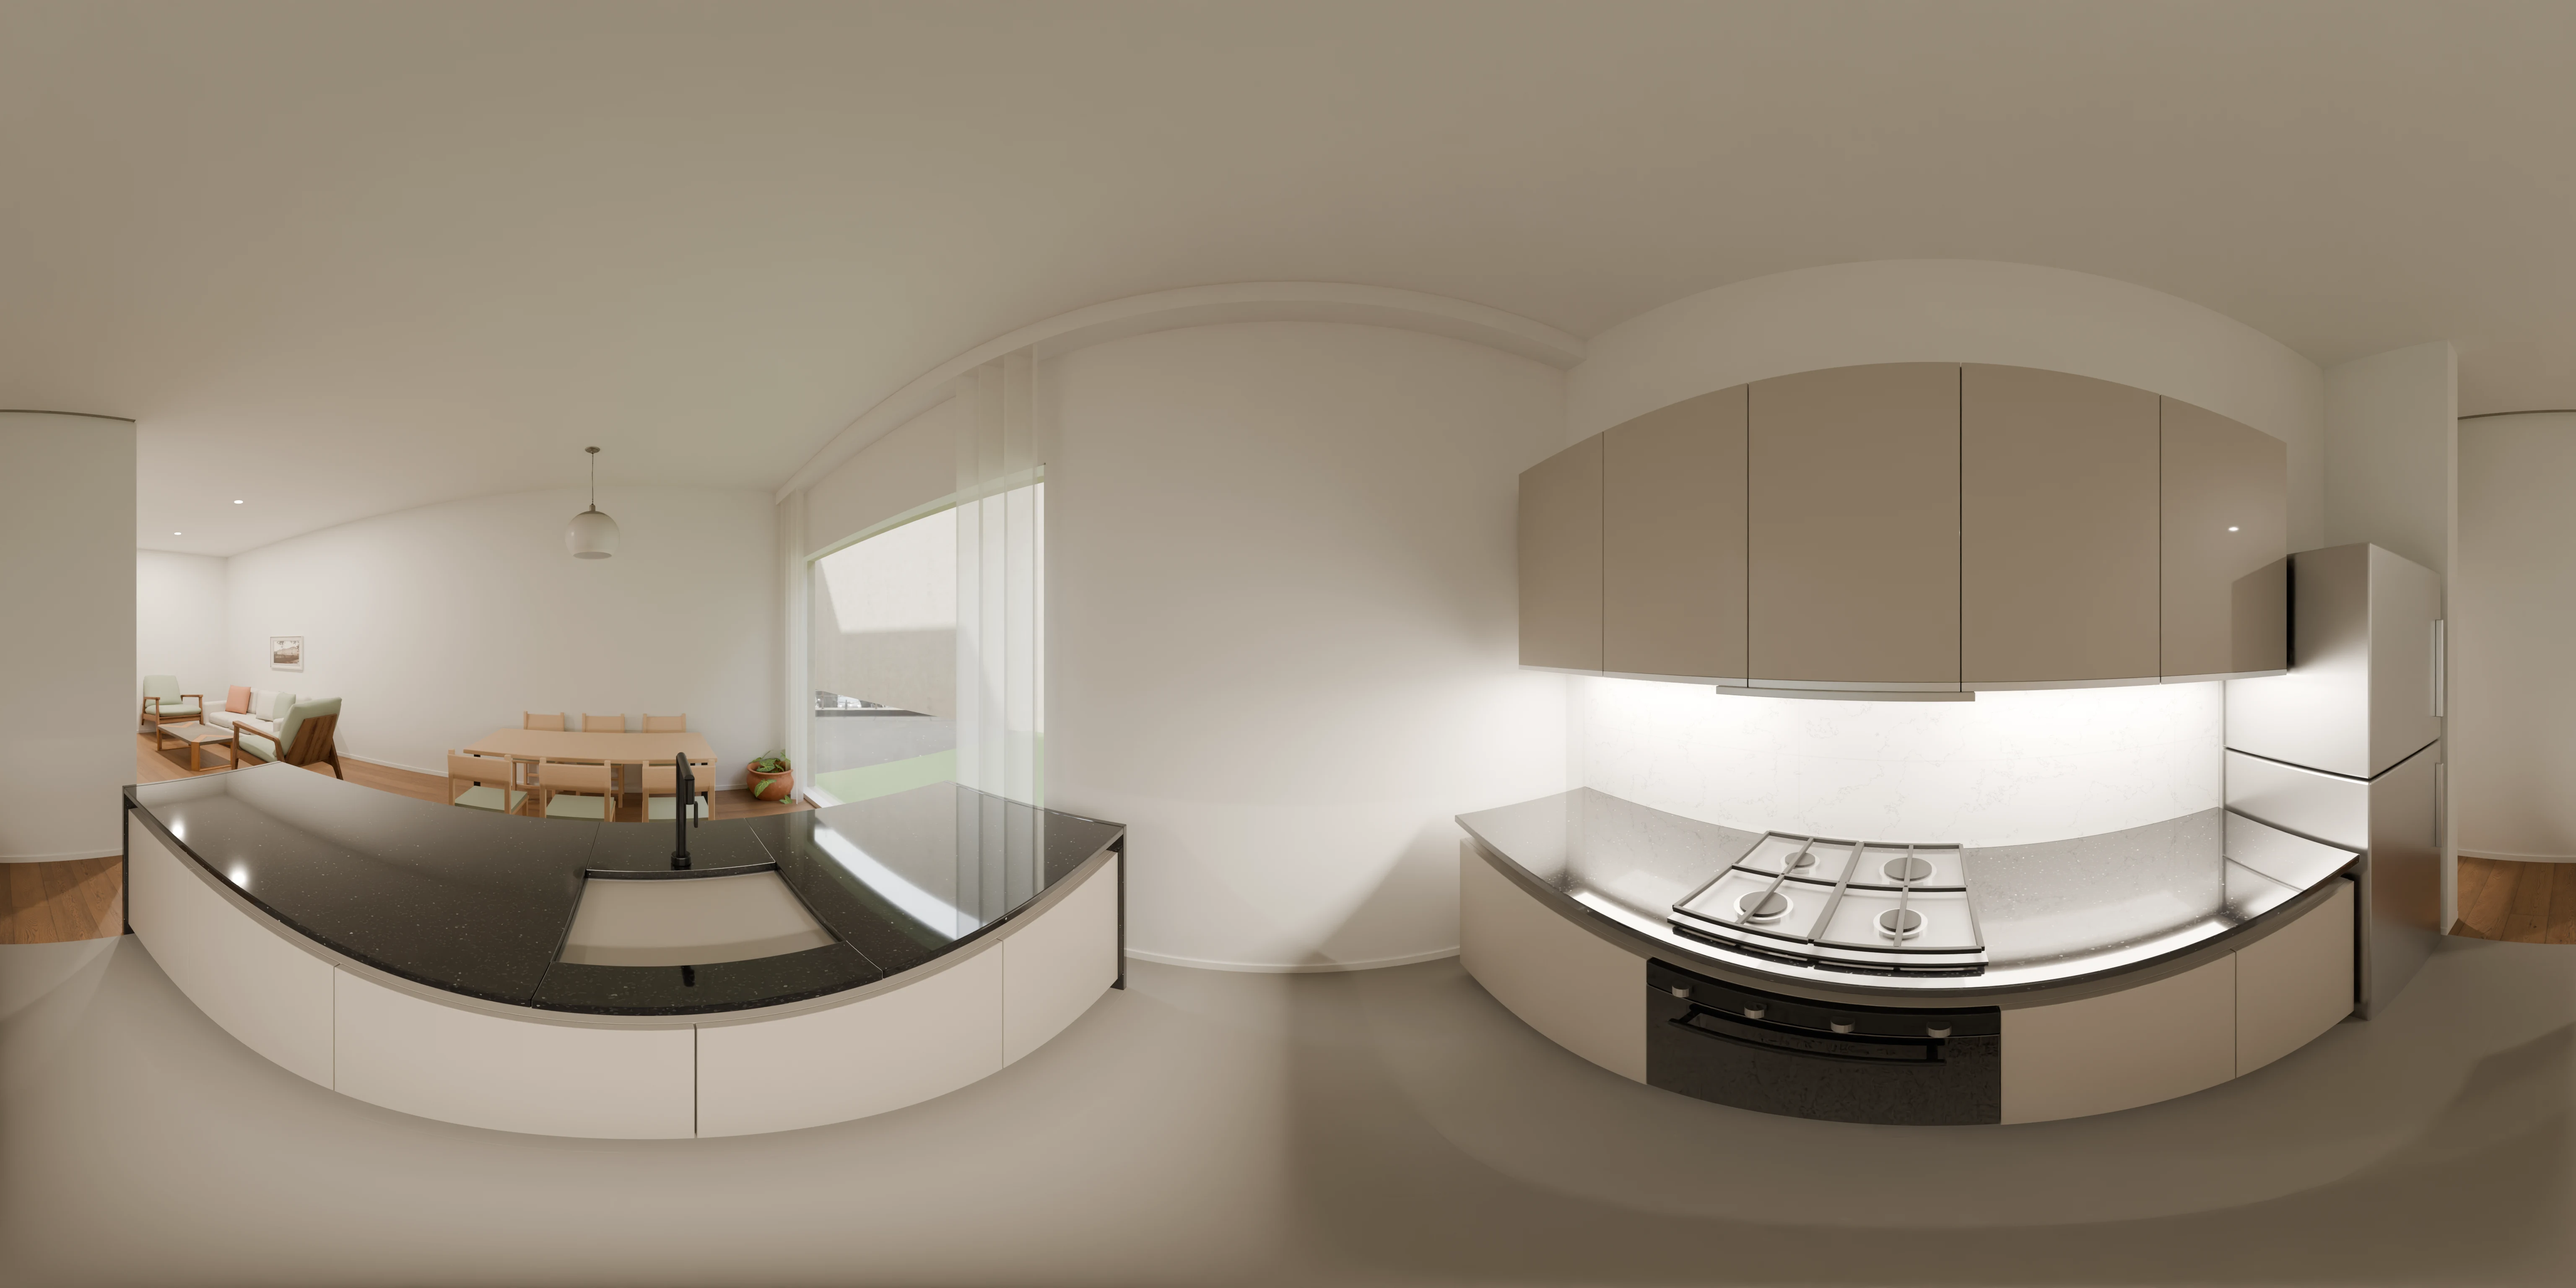
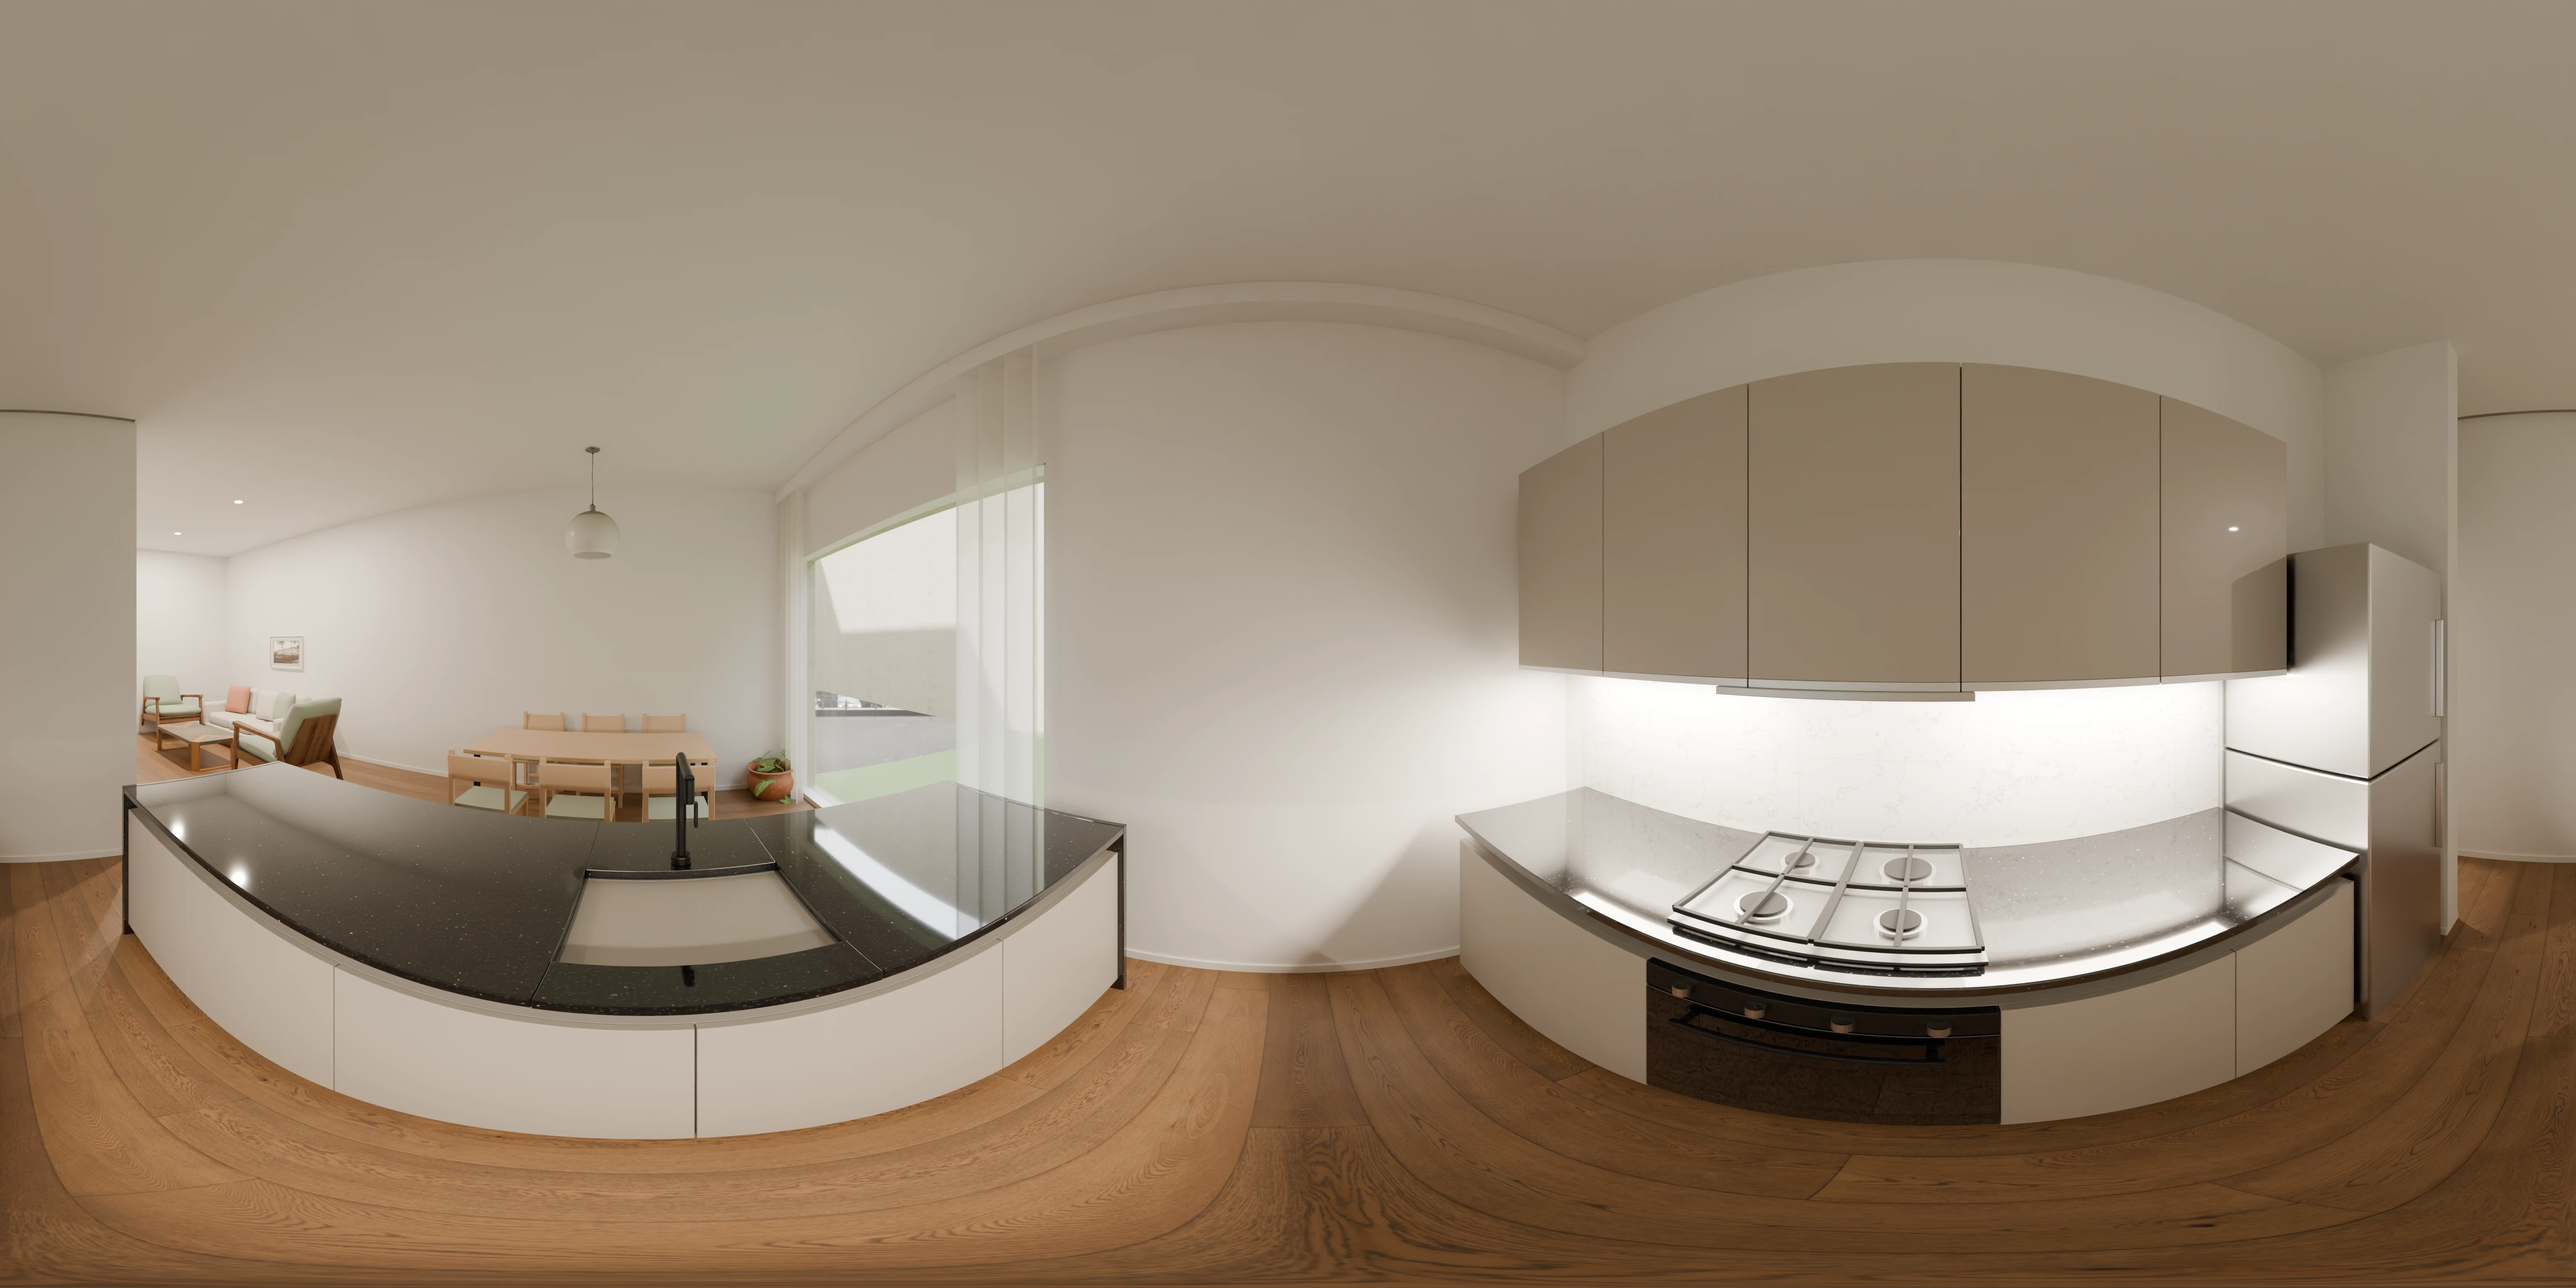
Recorridos 360: piso de madera continuo en puertas y cocinas, sin maceta en dormitorios de PB
- Madera en los vanos de puertas y pasos (los solados terminaban en la cara de los tabiques)
- Cocinas de las tres tipologías con la misma madera que el resto
- Sin las plantas de la jardinera ni la maceta de la expansión en el recorrido de planta baja
- previa() acepta inclinar para revisar pisos y umbrales
- Panorámicas y planos nuevos de los tres recorridos

Changed region(s): [[0.0, 0.7188, 1.0, 1.0]]

diff --git a/scripts/blender/sesion_ca931.py b/scripts/blender/sesion_ca931.py
@@ -115,7 +115,10 @@ def _preparar_recorrido(rr, cambios):
         if o.get("reemplaza") and o["reemplaza"] in bpy.data.objects:
             cambios.fijar(bpy.data.objects[o["reemplaza"]], "hide_render", True)
     rn = bpy.app.driver_namespace["ca931"]["renders"]
+    # sin macetas de caja: la de la expansión de planta baja quedaba en la ventana del dormitorio 1 (en los
+    # balcones las tapan las de Poly Haven)
     mats = rn["materiales_render"]()
+    mats["WEB_Maceta"] = mats["WEB_Planta"]
     for o in bpy.data.objects:
         if o.type == "MESH":
             for i, m in enumerate(o.data.materials):
@@ -126,7 +129,7 @@ def _preparar_recorrido(rr, cambios):
             cambios.fijar(o, "hide_render", True)  # los de caja: en su lugar, los de la plantilla
     col = bpy.data.collections.new("R_Recorrido")
     esc.collection.children.link(col)
-    rn["plantas"](col)
+    rn["plantas"](col, jardinera=False)
 
     def sacar():
         for o in list(col.all_objects):
@@ -136,10 +139,11 @@ def _preparar_recorrido(rr, cambios):
     cambios.fijar(esc.cycles, "device", "GPU")
 
 
-def previa(nombre, camara, giro=0.0, muestras=128, lente=14, ancho=960, alto=540, extra=None):
+def previa(nombre, camara, giro=0.0, muestras=128, lente=14, ancho=960, alto=540, extra=None, inclinar=0.0):
     """
     perspectiva rápida desde la cámara Pano_* `camara` (girada `giro` grados a la derecha) con el mismo ambiente
-    que la panorámica: para revisar antes de la tanda (~10 s). PNG en blender/web/previas/<nombre>.png
+    que la panorámica: para revisar antes de la tanda (~10 s). PNG en blender/web/previas/<nombre>.png.
+    inclinar: grados hacia abajo (para revisar pisos y umbrales)
     """
     import math
     import time
@@ -160,7 +164,7 @@ def previa(nombre, camara, giro=0.0, muestras=128, lente=14, ancho=960, alto=540
     esc.collection.objects.link(cam)
     f = pano.matrix_world.to_3x3() @ Vector((0, 0, -1))
     cam.location = pano.matrix_world.translation
-    cam.rotation_euler = (math.radians(90), 0, math.atan2(-f.x, f.y) - math.radians(giro))
+    cam.rotation_euler = (math.radians(90 - inclinar), 0, math.atan2(-f.x, f.y) - math.radians(giro))
     antes = esc.camera, esc.render.filepath
     os.makedirs(PREVIAS, exist_ok=True)
     try:

diff --git a/scripts/blender/interior_ca931.py b/scripts/blender/interior_ca931.py
@@ -57,7 +57,7 @@ MUROS_TIPO = [
 
 SOLADOS_TIPO = [
     ("INT_Madera", 0.42, 6.40, 0.15, 3.05),      # estar comedor A
-    ("INT_Ceramica", 0.42, 3.00, 3.05, 5.28),    # cocina A
+    ("INT_Madera", 0.42, 3.00, 3.05, 5.28),      # cocina A (madera, como el resto: cliente)
     ("INT_Madera", 6.40, 12.30, 2.10, 3.05),     # pasillo A
     ("INT_Madera", 6.50, 7.15, 0.15, 2.00),      # placard del termo A
     ("INT_Ceramica", 7.25, 8.80, 0.15, 2.00),    # baño 1 A
@@ -69,7 +69,7 @@ SOLADOS_TIPO = [
     ("INT_Comun", 7.45, 11.10, 3.20, 5.58),      # escalera
     ("INT_Pozo", 3.15, 4.65, 3.20, 5.13),        # pasadizo del ascensor
     ("INT_Madera", 0.42, 6.90, 5.43, 8.51),      # estar comedor B
-    ("INT_Ceramica", 6.90, 9.25, 5.73, 8.51),    # cocina B
+    ("INT_Madera", 6.90, 9.25, 5.73, 8.51),      # cocina B
     ("INT_Madera", 9.35, 11.65, 5.73, 6.60),     # pasillo B
     ("INT_Madera", 9.35, 10.02, 6.60, 8.51),     # placard del termo B
     ("INT_Ceramica", 10.12, 11.65, 6.70, 8.51),  # baño B
@@ -152,7 +152,7 @@ SOLADOS_PB = [
     ("INT_Ceramica", 4.62, 7.35, 0.15, 2.00),    # baño 1
     ("INT_Madera", 7.45, 15.50, 0.15, 3.30),     # estar comedor
     ("INT_Madera", 11.40, 12.30, 3.30, 5.40),
-    ("INT_Ceramica", 12.30, 15.50, 3.30, 5.40),  # cocina
+    ("INT_Madera", 12.30, 15.50, 3.30, 5.40),    # cocina
     ("INT_Madera", 12.30, 15.50, 5.50, 8.51),    # dormitorio 3
     ("INT_Madera", 10.40, 12.30, 5.50, 8.51),    # paso con placard
     ("INT_Madera", 11.40, 12.15, 5.40, 5.50),

diff --git a/scripts/blender/recorrido_ca931.py b/scripts/blender/recorrido_ca931.py
@@ -124,9 +124,13 @@ def vano(p, mats, eje, c, u0, u1, espesor, alto, puerta=None, **opciones):
     """dintel de mampostería sobre un vano y, si va, la puerta con marco (vestir_interior.puerta: eje "x" = muro a
     lo largo de d en a = c; "y" = a lo largo de a en d = c)"""
     e = espesor / 2
+    # los solados terminan en la cara de los tabiques: en el vano se veía la losa. Madera de lado a lado, 1 mm abajo
+    # de los solados para no quedar coplanar donde se pisan
     if eje == "x":
+        p.caja(c - e - 0.01, u0, c + e + 0.01, u1, 0, 0.019, mats["piso"], 0.0)
         p.caja(c - e, u0, c + e, u1, DINTEL_PUERTAS, alto, mats["pared"], 0.0)
     else:
+        p.caja(u0, c - e - 0.01, u1, c + e + 0.01, 0, 0.019, mats["piso"], 0.0)
         p.caja(u0, c - e, u1, c + e, DINTEL_PUERTAS, alto, mats["pared"], 0.0)
     if puerta:
         # manijas negras, como las aberturas (pedido del cliente)
@@ -858,6 +862,7 @@ def materiales_recorrido(mats):
     liso = vi["liso"]
     mats = dict(mats)
     mats["pared"] = bpy.data.materials["INT_Muro"]
+    mats["piso"] = bpy.data.materials["INT_Madera"]
     mats["cielorraso"] = liso("REC_Cielorraso", (0.82, 0.82, 0.81), 0.85)
     mats["sombra"] = liso("REC_Sanitario_Interior", (0.8, 0.8, 0.79), 0.08)
     mats["screen"] = vi["voile"]("REC_Screen")

diff --git a/scripts/blender/renders_ca931.py b/scripts/blender/renders_ca931.py
@@ -171,15 +171,16 @@ def colocar(slug, col, x, y, giro, z):
         col.objects.link(c)
 
 
-def plantas(col):
-    """macetas con plantas reales en los balcones del 3 ambientes, colgantes en el 2 ambientes y en la jardinera"""
+def plantas(col, jardinera=True):
+    """macetas con plantas reales en los balcones del 3 ambientes, colgantes en el 2 ambientes y en la jardinera
+    (ésta no en el recorrido: tapaba las ventanas de los dormitorios de planta baja)"""
     g = medidas()
     for n in range(1, g["PISOS"] + 1):
         z = g["ALTO_PB"] + (n - 1) * g["ALTO_PISO"] + g["LOSA"]
         colocar("potted_plant_01", col, g["X0"] + g["ALETA"] + 0.4, -g["BALCON"] + 0.4, -60, z)
         colocar("potted_plant_01", col, g["MAD_I"] - 0.45, -g["BALCON"] + 0.4, 40, z)
         colocar("potted_plant_02", col, g["X1"] - 0.6, -g["BALCON"] + 0.06, 25, z + 1.0)  # sobre el antepecho
-    for x in (g["X0"] + 1.5, g["X0"] + 3.0):
+    for x in (g["X0"] + 1.5, g["X0"] + 3.0) if jardinera else ():
         colocar("potted_plant_01", col, x, 0.3, 0, 0.4)
 
 

diff --git a/docs/plan-renders-931.md b/docs/plan-renders-931.md
@@ -195,7 +195,8 @@ encolado; ~15 min por panorámica de 6144 × 3072 en la RX 6700 XT). El seed los
 `src/seed/assets/ca931/recorridos/<recorrido>/` y prende la sección.
 
 **Terminaciones interiores (las pasó el cliente, 29/10, con fotos de referencia de cocina y baño).** Piso de madera
-(porcelanato símil madera en tablas: la textura `wood_floor` ya lo es); cocina con muebles laqueados taupe y perfil
+(porcelanato símil madera en tablas: la textura `wood_floor` ya lo es) en toda la unidad, cocina incluida y
+corrido por los vanos de las puertas (30/10); cocina con muebles laqueados taupe y perfil
 gola de aluminio, mesada de granito negro pulido con desayunador en cascada hasta el piso, bacha gris, anafe a gas
 gris con horno negro abajo y revestimiento símil mármol blanco veteado entre mesada y alacenas; baños en porcelanato
 gris piedra de 60 × 120 en paredes y piso, vanitory de roble suspendido de dos cajones con mesada gris y bacha bajo
